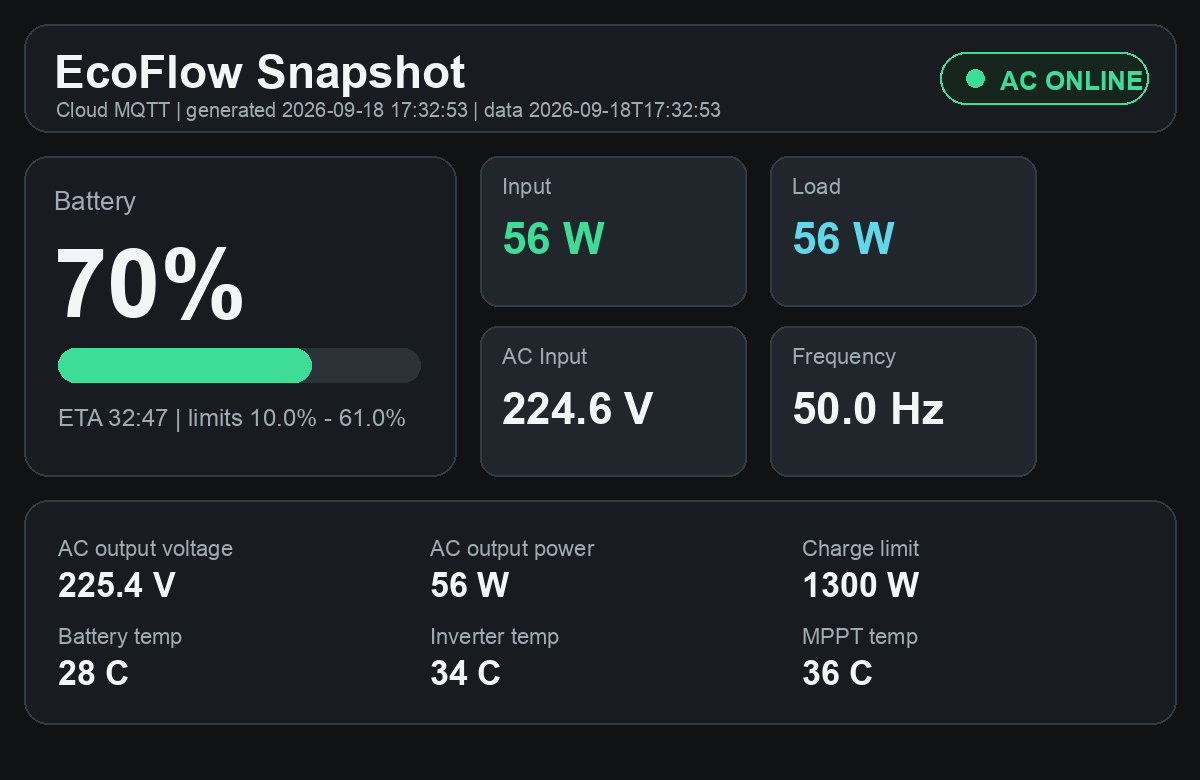
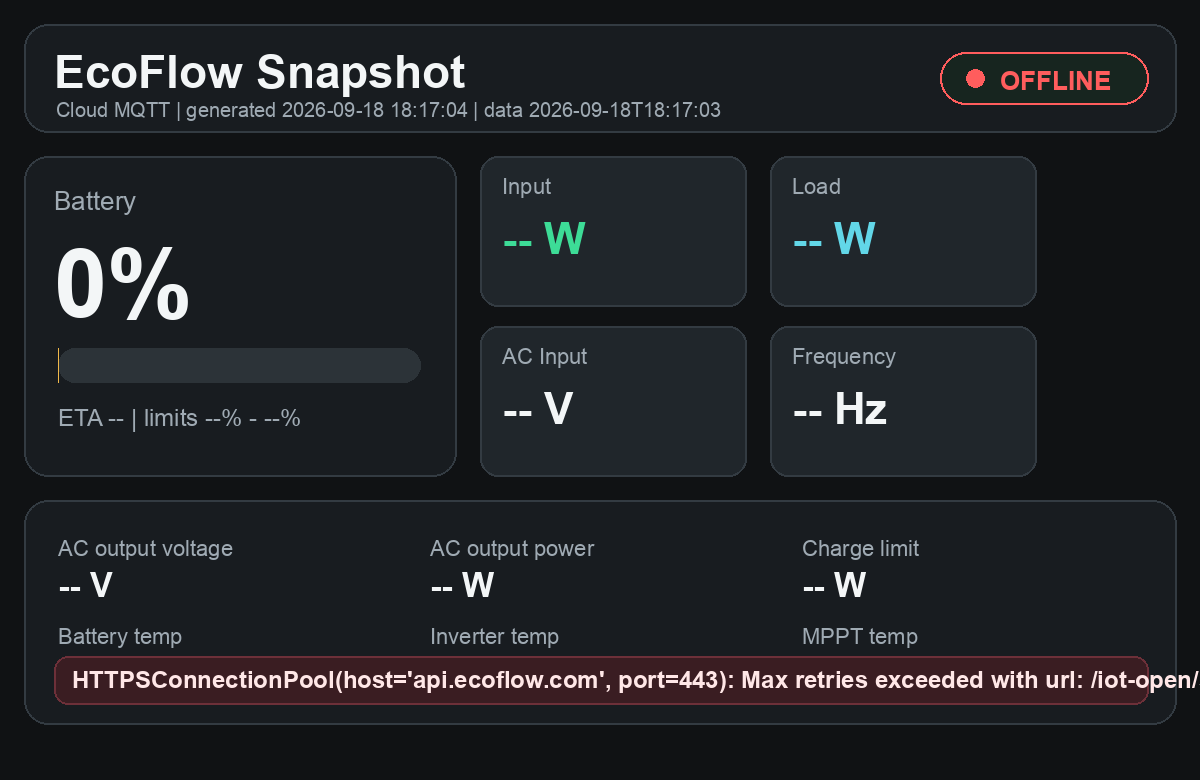
Update EcoFlow dashboard 2026-09-18 18:17:04

diff --git a/index.html b/index.html
@@ -75,7 +75,7 @@
       overflow: hidden;
       margin-top: 14px;
     }
-    .fill { width: 70%; height: 100%; background: linear-gradient(90deg, var(--green), var(--cyan)); }
+    .fill { width: 0%; height: 100%; background: linear-gradient(90deg, var(--green), var(--cyan)); }
     .cards {
       display: grid;
       grid-template-columns: repeat(4, minmax(0, 1fr));
@@ -177,34 +177,34 @@
   <header>
     <div>
       <h1>EcoFlow Snapshot</h1>
-      <div class="sub">Cloud MQTT · generated 2026-09-18T17:32:53 · data 2026-09-18T17:32:53</div>
+      <div class="sub">Cloud MQTT · generated 2026-09-18T18:17:04 · data 2026-09-18T18:17:03</div>
     </div>
-    <div class="status online"><span class="dot"></span><span>AC online</span></div>
+    <div class="status offline"><span class="dot"></span><span>Offline</span></div>
   </header>
 
-  
+  <div class='error'>HTTPSConnectionPool(host=&#x27;api.ecoflow.com&#x27;, port=443): Max retries exceeded with url: /iot-open/sign/certification (Caused by NameResolutionError(&quot;HTTPSConnection(host=&#x27;api.ecoflow.com&#x27;, port=443): Failed to resolve &#x27;api.ecoflow.com&#x27; ([Errno 8] nodename nor servname provided, or not known)&quot;))</div>
 
   <div class="grid">
     <section>
       <h2>Battery</h2>
-      <div class="value">70%</div>
+      <div class="value">0%</div>
       <div class="battery"><div class="fill"></div></div>
-      <div class="row"><span>ETA</span><span>32:47</span></div>
-      <div class="row"><span>SOC limits</span><span>10.0% - 61.0%</span></div>
+      <div class="row"><span>ETA</span><span>--</span></div>
+      <div class="row"><span>SOC limits</span><span>--% - --%</span></div>
     </section>
     <section>
       <h2>AC</h2>
-      <div class="row"><span>Input voltage</span><span>224.6 V</span></div>
-      <div class="row"><span>Input frequency</span><span>50.0 Hz</span></div>
-      <div class="row"><span>Output voltage</span><span>225.4 V</span></div>
+      <div class="row"><span>Input voltage</span><span>-- V</span></div>
+      <div class="row"><span>Input frequency</span><span>-- Hz</span></div>
+      <div class="row"><span>Output voltage</span><span>-- V</span></div>
     </section>
   </div>
 
   <div class="cards">
-    <div class="card"><span class="label">Input</span><span class="value">56 W</span></div>
-    <div class="card"><span class="label">Load</span><span class="value">56 W</span></div>
-    <div class="card"><span class="label">Battery temp</span><span class="value">28°C</span></div>
-    <div class="card"><span class="label">Inverter temp</span><span class="value">34°C</span></div>
+    <div class="card"><span class="label">Input</span><span class="value">-- W</span></div>
+    <div class="card"><span class="label">Load</span><span class="value">-- W</span></div>
+    <div class="card"><span class="label">Battery temp</span><span class="value">--°C</span></div>
+    <div class="card"><span class="label">Inverter temp</span><span class="value">--°C</span></div>
   </div>
 
   
@@ -238,33 +238,10 @@
   <details>
     <summary>Snapshot JSON</summary>
     <pre>{
-  &quot;ok&quot;: true,
+  &quot;ok&quot;: false,
   &quot;source&quot;: &quot;Cloud MQTT&quot;,
-  &quot;device&quot;: &quot;DELTA Pro&quot;,
-  &quot;timestamp&quot;: &quot;2026-09-18T17:32:53&quot;,
-  &quot;grid&quot;: true,
-  &quot;battery&quot;: {
-    &quot;soc&quot;: 70,
-    &quot;min&quot;: 10.0,
-    &quot;max&quot;: 61.0,
-    &quot;eta&quot;: &quot;32:47&quot;
-  },
-  &quot;power&quot;: {
-    &quot;in&quot;: 56,
-    &quot;out&quot;: 56,
-    &quot;acOut&quot;: 56,
-    &quot;chargeLimit&quot;: 1300
-  },
-  &quot;ac&quot;: {
-    &quot;inputVoltage&quot;: 224.623,
-    &quot;inputFreq&quot;: 50.0,
-    &quot;outputVoltage&quot;: 225.429
-  },
-  &quot;temps&quot;: {
-    &quot;battery&quot;: 28,
-    &quot;inverter&quot;: 34,
-    &quot;mppt&quot;: 36
-  },
+  &quot;timestamp&quot;: &quot;2026-09-18T18:17:03&quot;,
+  &quot;error&quot;: &quot;HTTPSConnectionPool(host=&#x27;api.ecoflow.com&#x27;, port=443): Max retries exceeded with url: /iot-open/sign/certification (Caused by NameResolutionError(\&quot;HTTPSConnection(host=&#x27;api.ecoflow.com&#x27;, port=443): Failed to resolve &#x27;api.ecoflow.com&#x27; ([Errno 8] nodename nor servname provided, or not known)\&quot;))&quot;,
   &quot;history&quot;: [
     {
       &quot;ts&quot;: &quot;2026-09-14T11:26:16&quot;,
